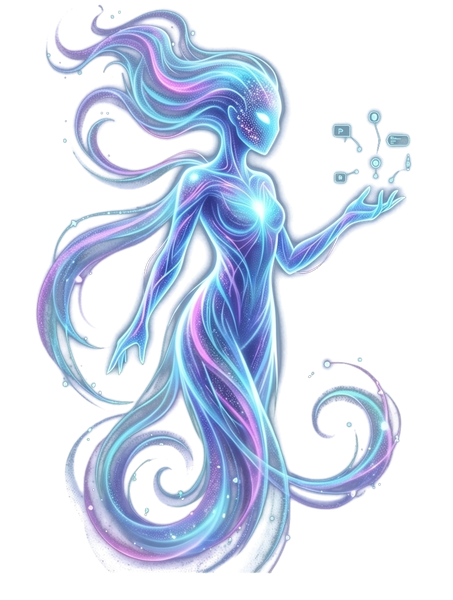
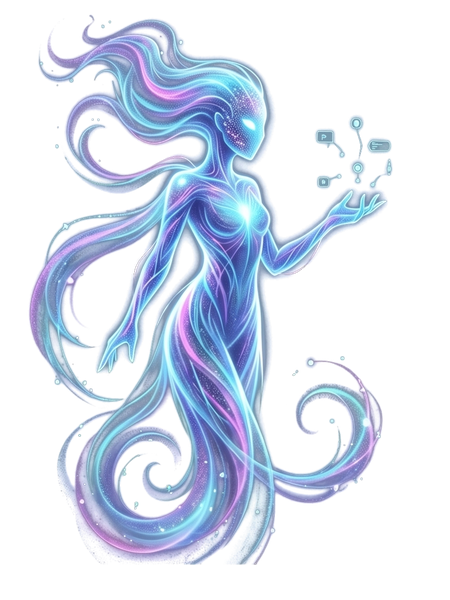
Arregla el recorte de las poses: el alineador envolvia el contenido
Lo encontro Codex revisando la PR #3, y era peor de lo que parecia: no
afectaba solo a Synapse sino a los TRES avatares.

Dos fallos en el alineador
- Desplazaba con ImageChops.offset, que es un desplazamiento CIRCULAR: lo
  que salia por un borde reaparecia por el opuesto. De ahi las "bandas
  desprendidas" — en synapse/hablando, 166 px pegados al borde izquierdo y
  167 al derecho, simetricos, que es la firma del envolvimiento.
- Recortaba al lienzo comun usando la caja de la mascara BINARIA (alfa >
  128), asi que amputaba todo lo tenue: justo los mechones de un
  personaje hecho de luz.

Ahora desplaza pegando sobre un lienzo holgado y recorta por alfa > 0.
Ademas la busqueda arranca del centro de masas en vez de barrer un radio
fijo: los desplazamientos salian pegados al limite del barrido, o sea que
no eran el optimo sino el tope. Con eso Vulpis recupera su 95,2% y 88,0%
de solape, esta vez de verdad.

Resultado: los doce PNG con CERO pixeles de contenido tocando el borde.

Por que no lo vi
Comprobe los bordes de los recortes ANTES de alinear, y ahi salian
limpios. El defecto lo introducia el paso siguiente. Verifique el
artefacto equivocado.

El test que faltaba
Uno que abre cada PNG instalado y falla si hay alfa pegado al borde.
Comprobado contra la version mala: canta 333 pixeles en
synapse/hablando. Lleva un lector de PNG minimo hecho con zlib —el motor
no tiene libreria de imagen y no merece la pena una dependencia por
[…]

diff --git a/packages/engine/src/config/avatars.test.ts b/packages/engine/src/config/avatars.test.ts
@@ -1,9 +1,81 @@
 import { test } from 'node:test';
 import assert from 'node:assert/strict';
 import { existsSync, readdirSync } from 'node:fs';
+import { readFile } from 'node:fs/promises';
+import { inflateSync } from 'node:zlib';
 import path from 'node:path';
 import { parseAvatars, loadAvatars, patchAvatarsYaml } from './avatars.js';
 import { repoRoot } from '../paths.js';
+
+/**
+ * Lector minimo de PNG, solo para mirar el canal alfa de nuestros propios
+ * assets. El motor no tiene libreria de imagen y no merece la pena anadir una
+ * dependencia por un test; con zlib, que viene en Node, basta.
+ *
+ * Asume lo que producimos: 8 bits, RGBA, sin entrelazar. Si algun dia deja de
+ * cumplirse, el propio test lo dice en vez de leer basura.
+ */
+async function leerPng(file: string): Promise<{
+  width: number;
+  height: number;
+  alphaAt: (x: number, y: number) => number;
+}> {
+  const buf = await readFile(file);
+  let pos = 8; // cabecera PNG
+  let width = 0;
+  let height = 0;
+  const trozos: Buffer[] = [];
+  while (pos < buf.length) {
+    const len = buf.readUInt32BE(pos);
+    const tipo = buf.toString('ascii', pos + 4, pos + 8);
+    const datos = buf.subarray(pos + 8, pos + 8 + len);
+    if (tipo === 'IHDR') {
+      width = datos.readUInt32BE(0);
+      height = datos.readUInt32BE(4);
+      assert.equal(datos[8], 8, `${file}: se esperaban 8 bits por canal`);
+      assert.equal(datos[9], 6, `${file}: se esperaba RGBA`);
+      assert.equal(datos[12], 0, `${file}: se esperaba sin entrelazar`);
+    } else if (tipo === 'IDAT') {
+      trozos.push(datos);
+    } else if (tipo === 'IEND') {
+      break;
+    }
+    pos += 12 + len; // longitud + tipo + datos + CRC
+  }
+
+  const bruto = inflateSync(Buffer.concat(trozos));
+  const paso = width * 4;
+  const px = Buffer.alloc(paso * height);
+  const paeth = (a: number, b: number, c: number): number => {
+    const p = a + b - c;
+    const pa = Math.abs(p - a);
+    const pb = Math.abs(p - b);
+    const pc = Math.abs(p - c);
+    return pa <= pb && pa <= pc ? a : pb <= pc ? b : c;
+  };
+  let src = 0;
+  for (let y = 0; y < height; y++) {
+    const filtro = bruto[src++]!;
+    for (let i = 0; i < paso; i++) {
+      const x = bruto[src++]!;
+      const a = i >= 4 ? px[y * paso + i - 4]! : 0;
+      const b = y > 0 ? px[(y - 1) * paso + i]! : 0;
+      const c = i >= 4 && y > 0 ? px[(y - 1) * paso + i - 4]! : 0;
+      const v =
+        filtro === 0
+          ? x
+          : filtro === 1
+            ? x + a
+            : filtro === 2
+              ? x + b
+              : filtro === 3
+                ? x + ((a + b) >> 1)
+                : x + paeth(a, b, c);
+      px[y * paso + i] = v & 0xff;
+    }
+  }
+  return { width, height, alphaAt: (x, y) => px[y * paso + x * 4 + 3]! };
+}
 
 /**
  * Lo que se prueba aqui es el CONTRATO DE PRIVACIDAD del perfil: un avatar
@@ -156,6 +228,39 @@ test('las carpetas de poses se llaman igual que su avatar, con la misma caja', (
       ids.includes(carpeta),
       `la carpeta "${carpeta}" no corresponde a ningun avatar (¿caja distinta?); ids: ${ids.join(', ')}`,
     );
+  }
+});
+
+/**
+ * Ninguna pose puede tocar el borde de su lienzo.
+ *
+ * Lo pillo Codex revisando: el alineador desplazaba con ImageChops.offset, que
+ * es un desplazamiento CIRCULAR — lo que salia por un lado reaparecia por el
+ * otro—, y ademas recortaba usando la caja de la mascara binaria, que amputaba
+ * lo tenue. En Synapse dejaba bandas desprendidas de 150 px de ancho. Se veia
+ * en la app, pero nada fallaba, asi que hacia falta medirlo.
+ *
+ * Se mira el PNG en crudo, sin escalar: si hay alfa pegado al borde, es que la
+ * figura esta cortada o hay un trozo que no le corresponde.
+ */
+test('ninguna pose toca el borde de su lienzo', async () => {
+  const dir = path.join(repoRoot, 'assets', 'avatars');
+  for (const a of loadAvatars()) {
+    const suyo = path.join(dir, a.id);
+    if (!existsSync(suyo)) continue;
+    for (const f of readdirSync(suyo).filter((x) => x.endsWith('.png'))) {
+      const { width, height, alphaAt } = await leerPng(path.join(suyo, f));
+      let tocando = 0;
+      for (let x = 0; x < width; x++) {
+        if (alphaAt(x, 0) > 16) tocando++;
+        if (alphaAt(x, height - 1) > 16) tocando++;
+      }
+      for (let y = 0; y < height; y++) {
+        if (alphaAt(0, y) > 16) tocando++;
+        if (alphaAt(width - 1, y) > 16) tocando++;
+      }
+      assert.equal(tocando, 0, `${a.id}/${f}: ${tocando} pixeles de contenido pegados al borde`);
+    }
   }
 });
 
